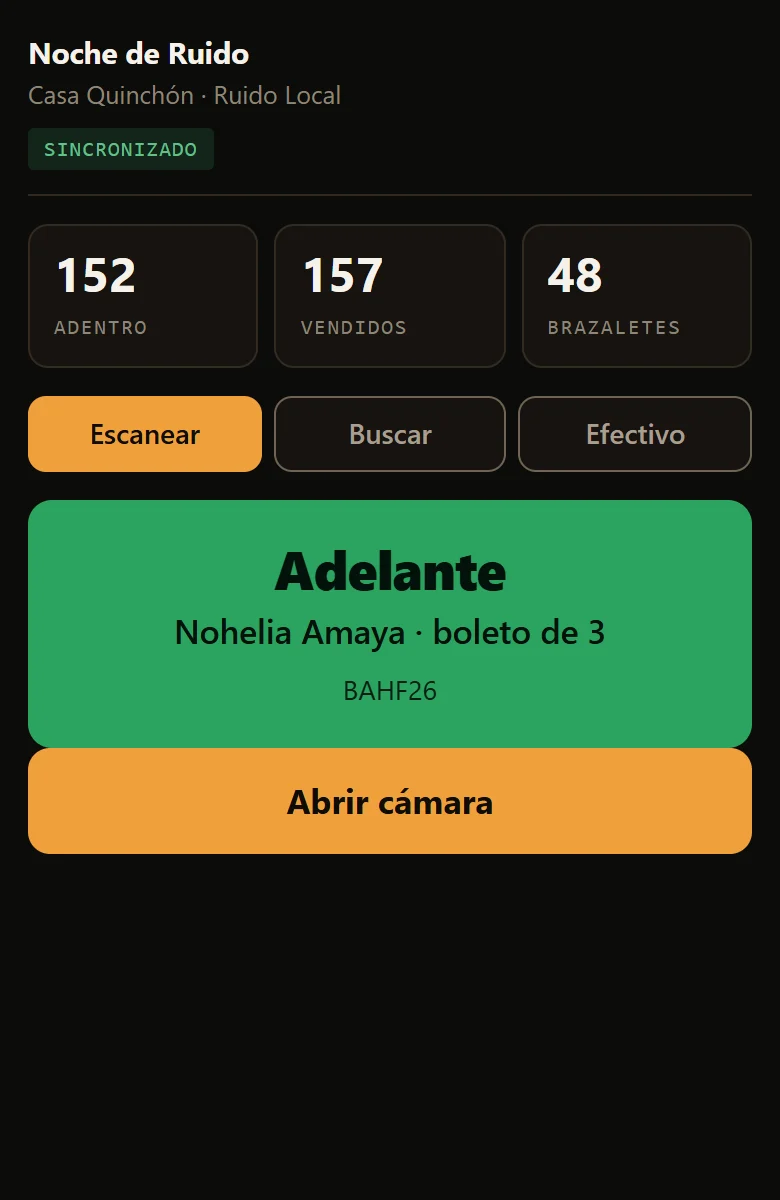
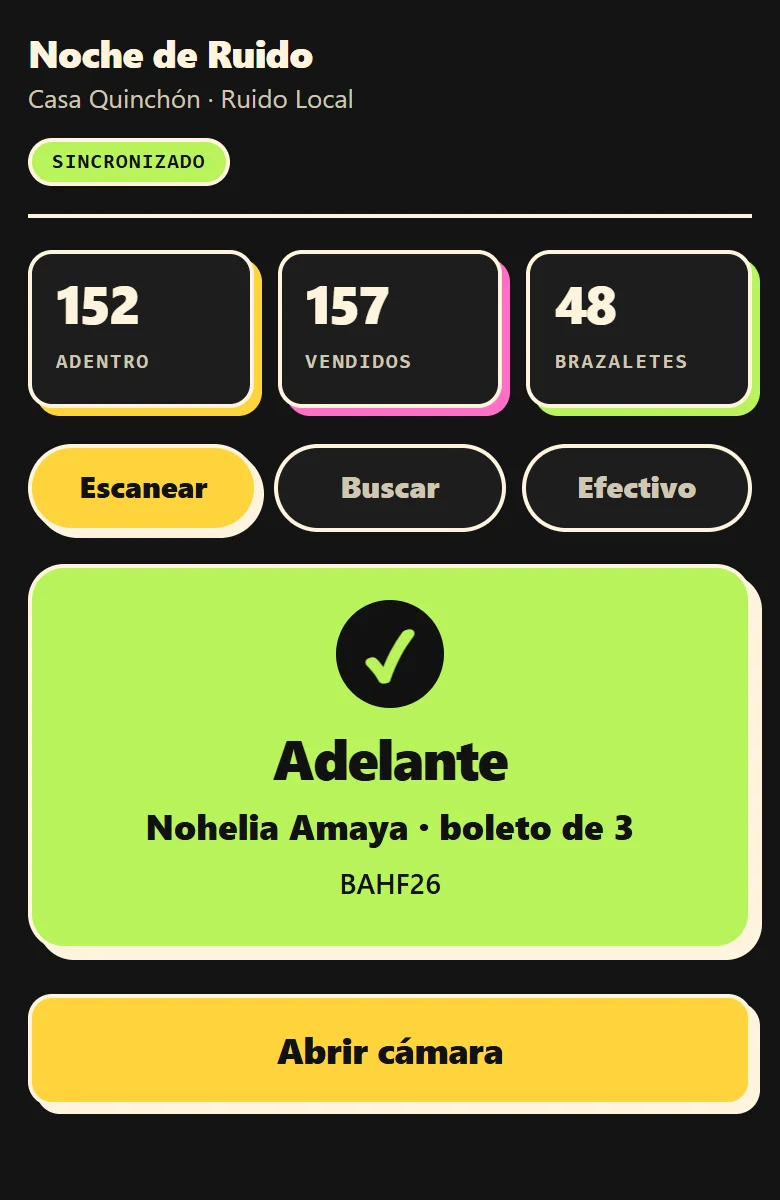
Finish FE-01: error pages on the buyer surface, a current scanner shot
The 404, the crash page and the buy link's sales-paused, not-open and
sold-out pages inlined the old dark palette in system-ui, with no lang
and no title. Buyers are who land on them, so by DESIGN.md's audience
rule they are now the light surface: one MessagePage on the buyer
Layout, copy and status codes unchanged, with the buyer footer's legal
links. This also closes FE-07's error-page part.

The buyer and band layouts' theme-color were still the old palette's.

npm run shots had stopped working when FE-05 made the scanner's Buscar
and Escanear buttons tabs; the rig now finds them by the tab role. The
regenerated scanner shot shows the restyled scanner. The dashboard and
ticket shots came out byte-identical.

diff --git a/src/routes/public/buy.tsx b/src/routes/public/buy.tsx
@@ -7,22 +7,10 @@ import { resolveSellableRule } from "../../db/queries/price-rules";
 import * as s from "../../db/schema";
 import { newShortCode } from "../../lib/core";
 import { BuyPage } from "../../views/buy/page";
+import { SaleNotOpenPage, SalesPausedPage, SoldOutPage } from "../../views/buy/unavailable";
 import type { PublicEnv } from "./context";
 
 export const buyRoutes = new Hono<PublicEnv>();
-
-/**
- * Shown while the `sales` switch is off — a deliberate, platform-wide stop,
- * not a fault. 503 rather than 404: the sale exists and is coming back.
- *
- * No price and no bank account on the page, because the reason for throwing
- * that switch is usually that one of those two was wrong.
- */
-const SALES_PAUSED = `<!doctype html><meta charset=utf-8><meta name=viewport content="width=device-width,initial-scale=1">
-   <body style="font-family:system-ui;background:#0C0B09;color:#F6F2EB;padding:40px;text-align:center">
-   <h1>La venta está pausada</h1>
-   <p style="color:#A79E90">Es temporal. Volvé a intentarlo en un rato, o escribile a la banda.</p>
-   <p style="color:#A79E90">Si ya transferiste, guardá tu comprobante — escribinos y lo resolvemos.</p></body>`;
 
 /**
  * The page a buyer lands on from the band's link: the price on sale right now,
@@ -36,27 +24,17 @@ buyRoutes.get("/e/:slug", async (c) => {
 
   // The platform-wide stop. Shown here as well as enforced on the POST, so a
   // buyer is told before filling the form rather than after transferring.
+  // A deliberate stop, not a fault: 503 rather than 404, because the sale
+  // exists and is coming back.
   const flags = await readFlags(db);
-  if (!flags.sales) return c.html(SALES_PAUSED, 503);
+  if (!flags.sales) return c.html(<SalesPausedPage band={band} event={event} />, 503);
 
-  if (event.status !== "live") {
-    return c.html(
-      `<!doctype html><meta charset=utf-8><body style="font-family:system-ui;background:#0C0B09;color:#F6F2EB;padding:40px;text-align:center">
-       <h1>Esta venta no está abierta</h1><p style="color:#A79E90">Escribinos si creés que es un error.</p></body>`,
-      404,
-    );
-  }
+  if (event.status !== "live") return c.html(<SaleNotOpenPage band={band} event={event} />, 404);
 
   // No sellable rule means sold out, and the page has to say so — there is no
   // price to fall back to.
   const rule = await resolveSellableRule(db, event.id);
-  if (!rule) {
-    return c.html(
-      `<!doctype html><meta charset=utf-8><body style="font-family:system-ui;background:#0C0B09;color:#F6F2EB;padding:40px;text-align:center">
-       <h1>Boletos agotados</h1><p style="color:#A79E90">Ya no hay boletos disponibles en línea.</p></body>`,
-      410,
-    );
-  }
+  if (!rule) return c.html(<SoldOutPage band={band} event={event} />, 410);
 
   const accounts = await db
     .select()

diff --git a/src/index.tsx b/src/index.tsx
@@ -22,6 +22,7 @@ import { scannerShellRoutes } from "./routes/public/scanner-shell";
 import { signupRoutes } from "./routes/public/signup";
 import { scanApi } from "./routes/scan";
 import { scanErrorApi } from "./routes/scan-errors";
+import { NotFoundPage, ServerErrorPage } from "./views/errors";
 
 /**
  * The worker's entry point: it assembles the app and owns the two responses
@@ -124,15 +125,7 @@ app.route("/admin", admin);
 app.route("/", scannerShellRoutes);
 app.route("/", landingRoutes);
 
-app.notFound((c) =>
-  c.html(
-    `<!doctype html><meta charset=utf-8><meta name=viewport content="width=device-width,initial-scale=1">
-     <body style="font-family:system-ui;background:#0C0B09;color:#F6F2EB;padding:48px 24px;text-align:center">
-     <h1>No encontramos esta página</h1>
-     <p style="color:#A79E90">Revisá el enlace que te compartieron.</p></body>`,
-    404,
-  ),
-);
+app.notFound((c) => c.html(<NotFoundPage />, 404));
 
 /**
  * Crashes have to reach somebody. The report runs after the response so the
@@ -148,13 +141,7 @@ app.onError((err, c) => {
       method: c.req.method,
     }),
   );
-  return c.html(
-    `<!doctype html><meta charset=utf-8><meta name=viewport content="width=device-width,initial-scale=1">
-     <body style="font-family:system-ui;background:#0C0B09;color:#F6F2EB;padding:48px 24px;text-align:center">
-     <h1>Algo salió mal</h1>
-     <p style="color:#A79E90">Volvé a intentarlo. Si ya transferiste, escribinos y lo resolvemos.</p></body>`,
-    500,
-  );
+  return c.html(<ServerErrorPage />, 500);
 });
 
 /**

diff --git a/src/views/buy/unavailable.tsx b/src/views/buy/unavailable.tsx
@@ -1,0 +1,46 @@
+import type { FC } from "hono/jsx";
+import { MessagePage } from "../message";
+
+/** What the event's own link shows when it cannot take an order. */
+type Props = {
+  band: { name: string };
+  event: { name: string };
+};
+
+/**
+ * The `sales` switch is off. No price and no bank account on the page,
+ * because the reason for throwing that switch is usually that one of those
+ * two was wrong.
+ */
+export const SalesPausedPage: FC<Props> = ({ band, event }) => (
+  <MessagePage
+    title={`La venta está pausada — ${event.name}`}
+    label={band.name}
+    headline="La venta está pausada"
+  >
+    <p class="blurb">Es temporal. Volvé a intentarlo en un rato, o escribile a la banda.</p>
+    <p class="blurb">Si ya transferiste, guardá tu comprobante — escribinos y lo resolvemos.</p>
+  </MessagePage>
+);
+
+/** The event is still a draft, or the band has closed or settled it. */
+export const SaleNotOpenPage: FC<Props> = ({ band, event }) => (
+  <MessagePage
+    title={`Esta venta no está abierta — ${event.name}`}
+    label={band.name}
+    headline="Esta venta no está abierta"
+  >
+    <p class="blurb">Escribinos si creés que es un error.</p>
+  </MessagePage>
+);
+
+/** Every price rule is used up or out of its window. */
+export const SoldOutPage: FC<Props> = ({ band, event }) => (
+  <MessagePage
+    title={`Boletos agotados — ${event.name}`}
+    label={band.name}
+    headline="Boletos agotados"
+  >
+    <p class="blurb">Ya no hay boletos disponibles en línea.</p>
+  </MessagePage>
+);

diff --git a/src/views/message.tsx b/src/views/message.tsx
@@ -1,0 +1,29 @@
+import type { FC, PropsWithChildren } from "hono/jsx";
+import { Wordmark } from "./brand";
+import { Layout } from "./layout";
+import { LegalLinks } from "./legal/links";
+
+/**
+ * A page that only has one thing to say: a link that goes nowhere, a crash, a
+ * sale that is not taking orders. The person reading it is almost always a
+ * buyer who followed a band's link, so it is the light surface like the rest
+ * of the buyer flow, whatever went wrong.
+ *
+ * `label` is the sticker above the headline: the band's name when the page
+ * knows which band the buyer came for, otherwise Coverr.
+ */
+export const MessagePage: FC<
+  PropsWithChildren<{ title: string; label: string; headline: string }>
+> = ({ title, label, headline, children }) => (
+  <Layout title={title}>
+    <header class="hero">
+      <div class="band">{label}</div>
+      <h1>{headline}</h1>
+      {children}
+    </header>
+    <footer>
+      <Wordmark size={20} />
+      <LegalLinks />
+    </footer>
+  </Layout>
+);

diff --git a/src/views/errors.tsx b/src/views/errors.tsx
@@ -1,0 +1,24 @@
+import type { FC } from "hono/jsx";
+import { MessagePage } from "./message";
+
+/** Every path no router claims. */
+export const NotFoundPage: FC = () => (
+  <MessagePage
+    title="No encontramos esta página — Coverr"
+    label="Coverr"
+    headline="No encontramos esta página"
+  >
+    <p class="blurb">Revisá el enlace que te compartieron.</p>
+  </MessagePage>
+);
+
+/**
+ * The crash page. It names no cause, because the cause is a stack trace, and
+ * it speaks to the buyer who may already have transferred: that is the person
+ * a failed purchase leaves worried.
+ */
+export const ServerErrorPage: FC = () => (
+  <MessagePage title="Algo salió mal — Coverr" label="Coverr" headline="Algo salió mal">
+    <p class="blurb">Volvé a intentarlo. Si ya transferiste, escribinos y lo resolvemos.</p>
+  </MessagePage>
+);

diff --git a/src/views/layout.tsx b/src/views/layout.tsx
@@ -41,7 +41,7 @@ export const Layout: FC<
       <meta charset="utf-8" />
       <ErrorReporter />
       <meta name="viewport" content="width=device-width,initial-scale=1,viewport-fit=cover" />
-      <meta name="theme-color" content="#FBF8F2" />
+      <meta name="theme-color" content="#FFF4DE" />
       {/* Almost every page on this layout shows something that belongs to one
           person: the band's bank account and holder name on the buy page, a
           buyer's name and live QR codes on the ticket page. None of that should

diff --git a/src/views/admin/layout.tsx b/src/views/admin/layout.tsx
@@ -62,7 +62,7 @@ export const AdminLayout: FC<
       <ErrorReporter />
       <meta name="viewport" content="width=device-width,initial-scale=1" />
       <meta name="robots" content="noindex,nofollow" />
-      <meta name="theme-color" content="#0F0E0B" />
+      <meta name="theme-color" content="#141414" />
       <title>{title}</title>
       {/* The admin app's whole design system, inlined into every page rather
           than linked: the door and the dashboard both get used on venue wifi,

diff --git a/docs/STANDARDS.md b/docs/STANDARDS.md
@@ -11,7 +11,7 @@ Status values:
 - **N/A:** doesn't apply, or the thing it governs doesn't exist yet (say which)
 
 ## Profile
-Last audit: 2026-10-19, scope `all` (8 checklists, one subagent each). SEC-03, LCH-04, LCH-05, LCH-06, LCH-13, MKT-03, LCH-11, LEG-04, SEC-11, MKT-02, PERF-03, SEC-08, FE-05, AI-02, CQ-03, CQ-14, FE-09, FE-06 re-checked 2026-10-28. FE-01 re-checked 2026-10-30.
+Last audit: 2026-10-19, scope `all` (8 checklists, one subagent each). SEC-03, LCH-04, LCH-05, LCH-06, LCH-13, MKT-03, LCH-11, LEG-04, SEC-11, MKT-02, PERF-03, SEC-08, FE-05, AI-02, CQ-03, CQ-14, FE-09, FE-06 re-checked 2026-10-28. FE-01 and FE-07 re-checked 2026-10-30.
 Countries served: Honduras
 
 | Flag | On | Meaning | Note |
@@ -108,13 +108,13 @@ Every service that receives user data, including hosting, database and auth prov
 | CQ-12 | low | Dependencies are current and there's one way to install them. | PARTIAL | One lockfile, npm only, Node pinned, nothing a major version behind. npm audit reports advisories including the hono/jsx XSS this stack is directly exposed to, and zod is declared ^3 while extract.ts imports zod/v4 | 2026-10-19 |
 | CQ-13 | low | Comments explain why, not what. | PASS | Comments explain why rather than what throughout; zero TODO, FIXME or HACK markers in src/ or public/ | 2026-10-19 |
 | CQ-14 | medium | A new developer can get it running from the README. | PASS | Re-checked 2026-10-28. README.md covers prerequisites, copying .dev.vars.example, generating SESSION_SECRET, what each optional variable does when absent, db:reset before first boot, signing in from the [email:dev] line, the demo band, every package.json script (all 17 listed), every binding, variable and secret in wrangler.jsonc, migrations, tests and deploying. The one gap, standing up a fresh Cloudflare account (creating the D1 database and R2 bucket, account and database ids, secrets), was added the same day as 'On a new Cloudflare account' | 2026-10-28 |
-| FE-01 | high | DESIGN.md exists and the UI follows it. | PARTIAL | DESIGN.md rewritten for the neo-brutalist system and followed by the landing, buyer and band stylesheets: shared type, stroke, radii, lift and the four sticker colours in src/styles/tokens.css, palettes per surface as the doc specifies. Fixed 2026-10-30: the door scanner and the emails, the last two surfaces on the amber palette, now follow it. public/scanner.css is the band's dark surface (cream 2px edges, hard shadows, sticker colours with black ink), still loading no font file and still precached by sw.js under the same name; its verdicts are lime, yellow and pink-red panels stamped ✓, ! and ✕, because lime and yellow measure 1.09 against each other, and an amber result boxes its reason on white. The scanner's theme-color and manifest colours follow. src/views/email.ts draws all six mails on the light surface, still inline-styled tables with no webfont: the ticket mail is the ticket page's lime stub, each mail's action is the pink button, flags are the buy page's crit block. The old mails' `font:… inherit` shorthand was invalid CSS, so their headings had rendered at body weight; and their fine print (3.25), links (3.93) and order code (3.01) were under 4.5:1. Every new pair measured, tightest 5.40, in DESIGN.md. Verified with before and after screenshots at 390px of every scanner result state and every mail, rendered from the real scanner.js and email.ts in Chrome; approved by the owner. **Remaining:** the 404 and 500 pages (src/index.tsx) and the buy route's error pages (src/routes/public/buy.tsx) inline the old dark palette; public/img/shot-scanner.webp on the landing page still shows the old scanner until `npm run shots` is re-run; deploy | 2026-10-30 |
+| FE-01 | high | DESIGN.md exists and the UI follows it. | PARTIAL | DESIGN.md rewritten for the neo-brutalist system and followed by the landing, buyer and band stylesheets: shared type, stroke, radii, lift and the four sticker colours in src/styles/tokens.css, palettes per surface as the doc specifies. Fixed 2026-10-30: the door scanner and the emails, the last two surfaces on the amber palette, now follow it. public/scanner.css is the band's dark surface (cream 2px edges, hard shadows, sticker colours with black ink), still loading no font file and still precached by sw.js under the same name; its verdicts are lime, yellow and pink-red panels stamped ✓, ! and ✕, because lime and yellow measure 1.09 against each other, and an amber result boxes its reason on white. The scanner's theme-color and manifest colours follow. src/views/email.ts draws all six mails on the light surface, still inline-styled tables with no webfont: the ticket mail is the ticket page's lime stub, each mail's action is the pink button, flags are the buy page's crit block. The old mails' `font:… inherit` shorthand was invalid CSS, so their headings had rendered at body weight; and their fine print (3.25), links (3.93) and order code (3.01) were under 4.5:1. Every new pair measured, tightest 5.40, in DESIGN.md. Verified with before and after screenshots at 390px of every scanner result state and every mail, rendered from the real scanner.js and email.ts in Chrome; approved by the owner. Also fixed 2026-10-30: the five error pages, which inlined the old dark palette in system-ui with no lang or title. The 404 and the crash page (src/index.tsx) and the buy link's sales-paused, not-open and sold-out pages (src/routes/public/buy.tsx) are buyer-facing, so by DESIGN.md's audience rule they are now the light surface: one MessagePage (src/views/message.tsx) on the buyer Layout, with the band's name or Coverr on the lime label, the Archivo Black headline, the copy unchanged, and the buyer footer with the legal links. Same status codes as before (404, 500, 503, 404, 410). The buyer and band layouts' theme-color were also still on the old palette (#FBF8F2, #0F0E0B); now #FFF4DE and #141414. public/img/shot-scanner.webp regenerated with `npm run shots`, which had stopped working when FE-05 made the scanner's Buscar and Escanear buttons tabs; scripts/shoot.mjs now finds them by the tab role. The dashboard and ticket shots regenerated byte-identical. Verified with before and after screenshots at 390px of all five pages, each served from the dev server with its real status code, and of the scanner shot in the landing page's phone frame; approved by the owner. **Remaining:** deploy | 2026-10-30 |
 | FE-02 | high | One animation library per codebase, used politely. | PASS | GSAP on / only, vendored. Reveals hide behind a .js-reveal guard with a 2s deadman, so a failed script still leaves a complete page; reduced motion disables all of it including the CSS tape strips and the coin. Buyer, band and scanner pages have no motion beyond a button's press | 2026-10-28 |
 | FE-03 | critical | Text is readable. | PASS | Every colour pair in the redesign measured: four sticker colours carry black ink only (tightest 5.06 on blue), light muted 10.85, dark muted 9.94, focus ring 3.42 against a 3:1 floor - tables in DESIGN.md. Measured by arithmetic; the browser node scan from 2026-10-19 has not been re-run against the new surfaces | 2026-10-28 |
 | FE-04 | high | Every data screen has loading, empty and error states. | PARTIAL | Fixed 2026-10-19: the buy form no longer discards the buyer's draft on submit - it is kept until the order exists and cleared on the ticket page, verified end to end in a browser. Manual sale echoes every typed value back on rejection and has a double-submit guard. Still open: errors render as one page-level block rather than beside the offending field, and the seven remaining admin forms have no double-submit guard | 2026-10-19 |
 | FE-05 | high | Keyboard and screen-reader basics work. | PASS | lang, real buttons, alt text and QR aria are all good. The scanner has no h1 and two unlabelled inputs; the file picker is a 0x0 invisible control with no focus style; landmarks and the skip link exist only on the landing page; and the scanner tabs have no tab roles while the door verdict has no aria-live, so nothing is announced. Fixed 2026-10-28. Scanner (views/scanner.ts, public/scanner.js, public/scanner.css): the event name is the page's h1; the search box and the cash quantity have labels; the three tabs are a tablist with aria-selected, aria-controls, one tab stop and arrow, Home and End keys, and the panes are tabpanels; every verdict and confirmation is written to an always-present assertive live region (the result panel is hidden between scans, and a region that was display:none is not reliably announced); the connection badge and the cash note are role=status, and the badge only rewrites changed text so the sync timer does not repeat it; buttons get a 3px focus ring, dark on the amber panel where the accent would vanish. Landmarks: the buyer layout's column, the scanner and the admin content are `<main>`; the legal pages' inner `<main>` became `<article>` so there is one per page; the admin layout has a skip link past both nav bars. The file picker was already a full-size control with a 3px focus-within ring (buyer.css). Also found and fixed: the manual-sale names box, the member name and percentage fields in band settings and the attendee rename on the order page had no label, and their per-row Guardar and Quitar buttons now name the person. The buy page's quantity sentence is a polite live region. Verified locally with a script over 20 pages (buyer, ticket, refund, legal, sign-up, recovery, landing, every admin screen, scanner): lang es, exactly one h1 and one main each, no image without alt, no unlabelled field, no nameless button or link; and by keyboard: arrow keys through the scanner tabs with the ring visible, a cash confirmation read into the live region and cancelled with Tab and Enter, the admin skip link landing focus inside main. Live in production since 2026-10-28 (version ae4e914): /health ok; /privacidad, /registro, /recuperar and /admin/acceso each serve one h1 and one main, the legal page its article; the served scanner.js and scanner.css carry the tab keys, the live-region announcer and the focus ring | 2026-10-28 |
 | FE-06 | high | It works on a phone. | FAIL | Band surface fixed: inputs 16px so iOS no longer zooms, buttons 44px, row buttons 36px, event tabs 44px pills, band links 45px; buyer tap targets clear 44px. Still failing: scanner tabs 36px and the door's Marcar button 31px, and scanner.ts:27 sets maximum-scale=1, blocking pinch zoom where staff most need it. Fixed 2026-10-28, after measuring every page at 360px, which found more than this row said. Sideways scroll: the event form (new event and event settings) put two datetime-local fields in fixed 1fr 1fr columns, and a datetime-local will not shrink below about 250px, so both pages were 538px wide on a 360px phone; the three field pairs now use .field-pair (admin.css), which stacks when two do not fit and stays two-up on desktop, and the long 'Generar uno nuevo' button wraps (.btn.wraps). Scanner: tabs and the search-result buttons are 44px, the viewport no longer sets maximum-scale so pinch zoom works, and touch-action: manipulation removes only double-tap zoom. Band surface: 'Banda' and 'Salir' were 41 and 29px wide - the bar's gap moved into the links' padding, same spacing on screen; .btn.sm keeps its deliberate 36px look but an invisible ::after makes the tap area 44px (measured 45px with elementFromPoint); the order code in the orders list fills its cell (.cell-link, 44px instead of 19px); the buyer's email and WhatsApp links on the order page are 46px with their labels kept level. Buyer and landing: the checkout consent row, the ticket page's refund link and the landing nav's button and logo were 41-43px or 19px, now 44px. The auth pages' full-height card uses 100svh instead of 100vh. Verified at 360px on 20 pages, every scanner tab included: no page wider than the screen, every input at 16px or more, every button, control and standalone link at least 44px tall and wide (the .btn.sm by its tap area). Links inside sentences are the one exception, as WCAG's inline-target exception allows. **Remaining:** deploy | 2026-10-28 |
-| FE-07 | medium | No dead ends or leftovers. | PARTIAL | No dead links - all 30 internal targets resolve. The 404 and 500 pages render on the scanner's dark palette with no lang or title despite carrying buyer-facing copy, and manifest start_url points at the marketing page, so an installed scanner icon opens the landing page with no route back | 2026-10-19 |
+| FE-07 | medium | No dead ends or leftovers. | PARTIAL | No dead links - all 30 internal targets resolve. The 404 and 500 pages render on the scanner's dark palette with no lang or title despite carrying buyer-facing copy, and manifest start_url points at the marketing page, so an installed scanner icon opens the landing page with no route back. Fixed 2026-10-30 with FE-01: the 404 and 500 pages, and the buy link's three closed-sale pages, render on the buyer Layout, so each serves lang es and a title (for example 'Boletos agotados — {event}'), verified locally. **Remaining:** manifest start_url is still `/`; deploy | 2026-10-30 |
 | FE-08 | medium | Fonts load fast and stay few. | PASS | Exactly two families, both already on the device; zero @font-face, zero webfont requests, zero .woff files in the repo | 2026-10-19 |
 | FE-09 | medium | Brand basics are in place. | PARTIAL | Re-checked 2026-10-28. scripts/brand.mjs generates favicon.svg, favicon-32.png, apple-touch-icon.png and the 192, 512 and maskable 512 app icons from the brand mark; views/brand.tsx BrandIcons links the first three from the buyer, admin and landing heads; manifest.webmanifest lists all three app icons, so the scanner PWA is installable. Titles follow 'page - context' throughout. No icon package in the dependencies. Still open: the scanner shell (views/scanner.ts) is a hand-written document with no icon link, so its tab falls back to a /favicon.ico that does not exist. Fixed the same day with FE-06: the scanner head links the same three icons; verified locally. **Remaining:** deploy | 2026-10-28 |
 | FE-10 | low | Dark mode is either finished or not offered. | PARTIAL | No toggle and no prefers-color-scheme, deliberately. But dark ships on three documents and is unfinished: every FE-03 failure is on dark, admin never styles textarea while manual-sale uses one (a white box on a near-black page), and no sheet declares color-scheme dark so UA-painted controls render light | 2026-10-19 |
